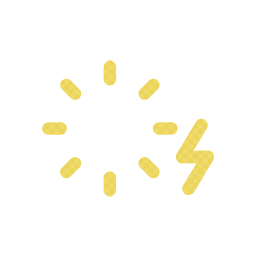
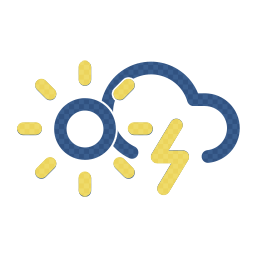
Enhance UI: Update footer with additional PWA installation link, improve compound display titles, and adjust footer link styling

Changed region(s): [[0.0625, 0.2188, 0.9375, 0.7812]]

diff --git a/index.js b/index.js
@@ -312,13 +312,25 @@ function renderDayCompound(days) {
     
     const Compound = avrgCompound || lowCompound || highCompound
 
-
+    const titlerow = document.createElement('div');
+    titlerow.className = 'compoundRow';
+    titlerow.style.alignItems = 'center'
     const row = document.createElement('div');
     row.className = 'compoundRow';
+
+    const lowTitle = document.createElement('small');
+    lowTitle.className = 'compoundTitle';
+    lowTitle.textContent = "Lightest";
+    lowTitle.style.opacity = '0.6'
 
     const title = document.createElement('h3');
     title.className = 'compoundTitle';
     title.textContent = "Today's compounds";
+
+    const highTitle = document.createElement('small');
+    highTitle.className = 'compoundTitle';
+    highTitle.textContent = "Heaviest";
+    highTitle.style.opacity = '0.6'
 
     row.append(...[...BANDS].reverse().map(c => {
         
@@ -357,7 +369,8 @@ function renderDayCompound(days) {
         return item;
     }));
     box.hidden = false
-    box.replaceChildren(title, row);
+    titlerow.replaceChildren(lowTitle, title, highTitle)
+    box.replaceChildren(titlerow, row);
 }
 
 function renderEngineerBox(days) {

diff --git a/index.html b/index.html
@@ -40,7 +40,7 @@
 
         </div>
         <footer>
-            US weather info via&nbsp;<a href="https://weather.gov">weather.gov</a>&nbsp;| Installable as PWA
+            US weather info via&nbsp;<a href="https://weather.gov">weather.gov</a>&nbsp;| Installable as PWA&nbsp;<a href="https://www.installpwa.com/from/formation.fencinglefty.com">learn how.</a>
         </footer>
     </main>
     <dialog id="alertDialog">

diff --git a/style.css b/style.css
@@ -553,6 +553,8 @@ footer {
 }
 footer > a {
     text-transform: none !important;
+    font-size: 1rem;
+    font-weight: 300;
     color: inherit;
     text-decoration: none;
     opacity: 0.6;
